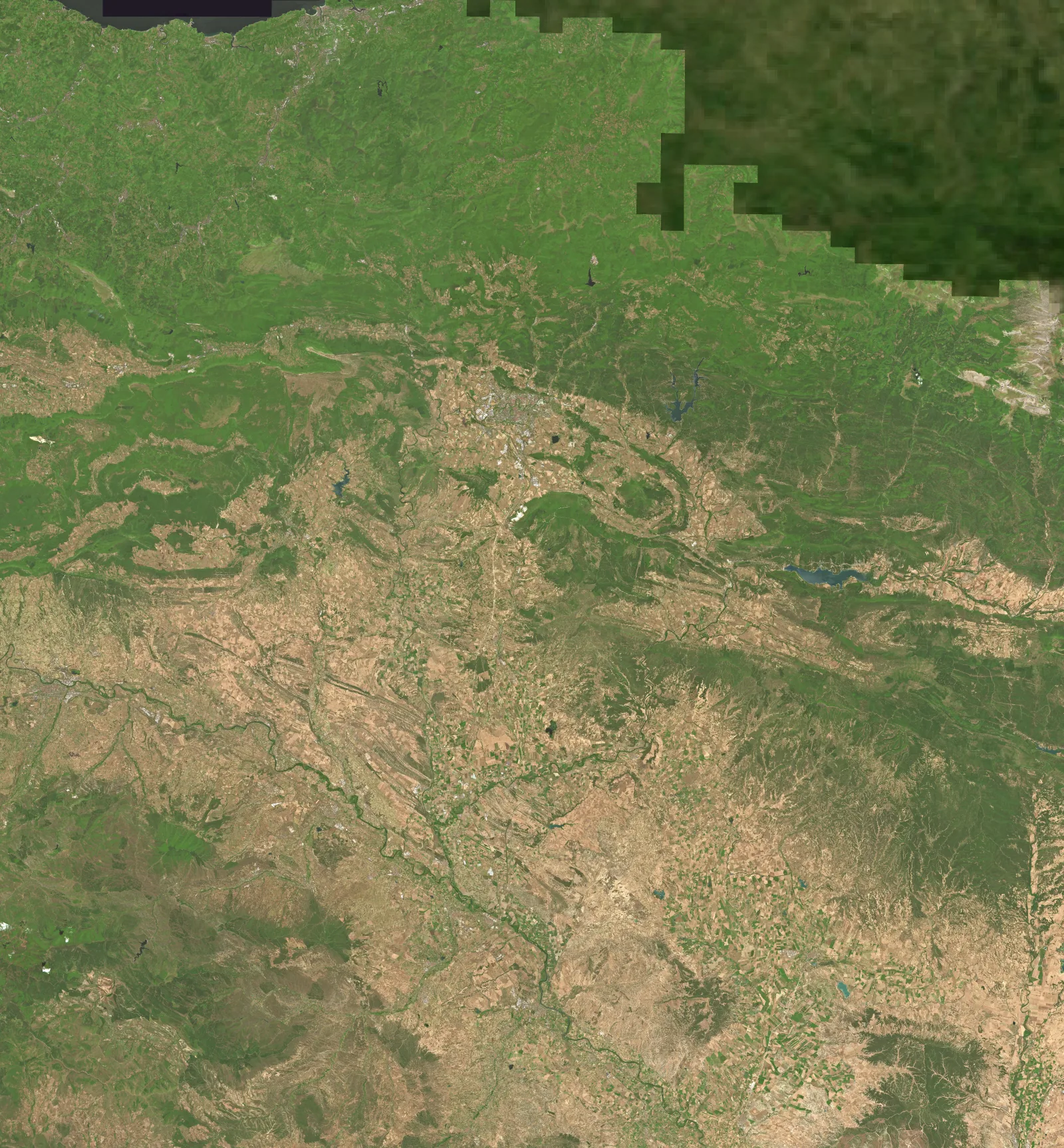
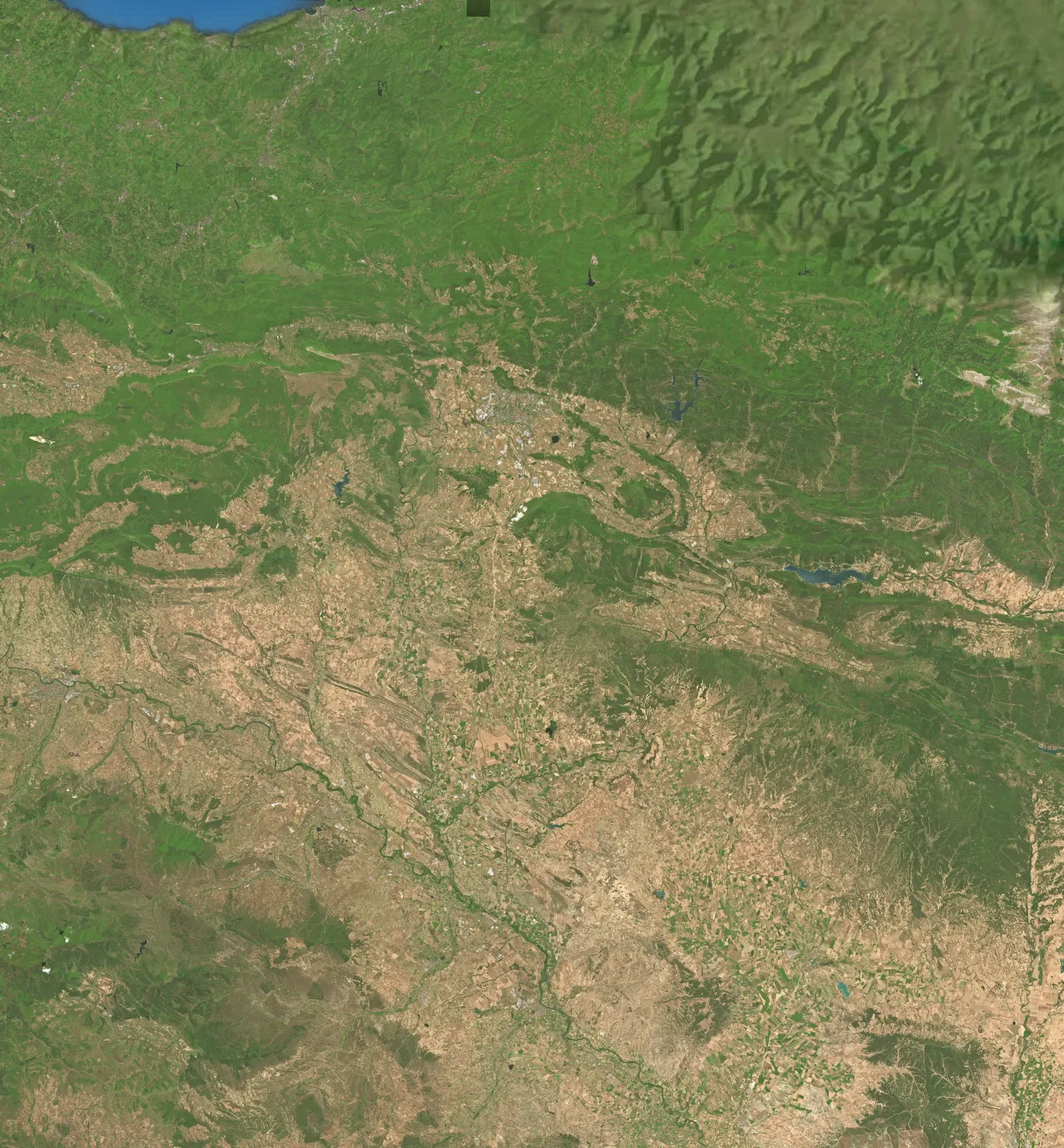
Mapa: la ortofoto sin la mancha de Francia y también fuera de su cuadro
En Francia la ortofoto era una capa oscura y a cuadros: ahí va la imagen de
alrededor del mapa, del mismo servicio y tono, con el borde fundido. Fuera del
cuadro de la ortofoto, el relieve y el canto de la isla toman esa misma imagen
en vez de estirar la foto desde su borde.

Claude-Session: https://claude.ai/code/session_01LP3syHb7415C8M5w3wgHaS

Changed region(s): [[0.4688, 0.0, 1.0, 0.2764], [0.0625, 0.0, 0.3125, 0.0307]]

diff --git a/src/hub/mapa3dIsla.js b/src/hub/mapa3dIsla.js
@@ -7,7 +7,7 @@
 // primera vez que se elige la comarca (mapa3d.js).
 import * as THREE from 'three';
 import { ruidoV, S, CX, CY } from './mapa3dFormas.js';
-import { TONO_ORTO, NUBES } from './mapa3dSombreadores.js';
+import { TONO_ORTO, NUBES, ORTO_FUERA } from './mapa3dSombreadores.js';
 // (la panza, desde el 15 de noviembre de 2026: tierra parda con piedras y terrones, raíces y algo de musgo, como la
 // segunda referencia del autor, una isla con cascada; generada con Higgsfield con la cuenta del autor, repetible y con sus
 // normales sacadas de su propia luz, tools/islas/tierra-roca.py. Antes, una caliza clara con surcos que bajaban, que de
@@ -354,14 +354,14 @@ void main() { vUv = uv; vZ = aZona; vL = aLuz; vA = aA; vRv = position.y; vS = a
     fragmentShader: `uniform sampler2D uRoca, uColg, uTierra, uHierba, uOrto, uOrtoD, uSombra; uniform vec4 uOrtoR, uDetRect, uRect; uniform float uOrtoK, uOrtoDK, uTintK, uGris, uListo, uCerca, uTex, uGrosor, uExa, uBrillo; uniform vec3 uTinte;
 varying vec2 vUv, vS; varying float vZ, vL, vA, vRv, vH;
 #include <fog_pars_fragment>
-${NUBES}${TONO_ORTO}float h2(vec2 p) { return fract(sin(dot(p, vec2(127.1, 311.7))) * 43758.5453); }
+${NUBES}${TONO_ORTO}${ORTO_FUERA}float h2(vec2 p) { return fract(sin(dot(p, vec2(127.1, 311.7))) * 43758.5453); }
 float n2(vec2 p) { vec2 i = floor(p), f = fract(p); f = f * f * (3.0 - 2.0 * f); return mix(mix(h2(i), h2(i + vec2(1, 0)), f.x), mix(h2(i + vec2(0, 1)), h2(i + vec2(1, 1)), f.x), f.y); }
 // (el color del suelo de la comarca en un punto, como lo pinta el terreno; b, cuánto se suaviza: el fleco lo toma algo
 // borroso, que no titile)
 vec3 suelo(vec2 p, float h, float b) {
   vec2 sv = p / ${S.toFixed(1)} + vec2(${CX.toFixed(1)}, ${CY.toFixed(1)});
-  vec3 o = texture2D(uOrto, (sv - uOrtoR.xy) / uOrtoR.zw, b).rgb;
-  if (uOrtoDK > 0.0) o = mix(o, texture2D(uOrtoD, (sv - uDetRect.xy) / uDetRect.zw, b).rgb, uOrtoDK);
+  vec2 ou = (sv - uOrtoR.xy) / uOrtoR.zw; vec3 o = ortoFuera(texture2D(uOrto, ou, b).rgb, sv, ou);
+  if (uOrtoDK > 0.0) { vec2 dq = (sv - uDetRect.xy) / uDetRect.zw; o = mix(o, texture2D(uOrtoD, dq, b).rgb, uOrtoDK * enCuadro(dq, 0.012)); }
   float s = mix(1.0, texture2D(uSombra, (sv - uRect.xy) / uRect.zw, b).r * 1.7, uListo);
   s = s < 1.0 ? 1.0 + (s - 1.0) * 1.25 : 1.0 + (s - 1.0) * 0.62; s += 0.22 * (1.0 - smoothstep(0.0, 0.7, s));
   vec3 c = mix(vec3(0.42, 0.55, 0.3) * s, tonoOrto(o) * (1.0 + (s - 1.0) * 0.7), uOrtoK);
@@ -406,7 +406,7 @@ void main() {
   // (los mismos uniformes que el terreno de su comarca, que cambian con él: la ortofoto, la luz del relieve, el tiempo de las
   // nubes, el velo)
   const DEF = { uTinte: () => new THREE.Color(), uOrtoR: () => new THREE.Vector4(0, 0, 1, 1), uDetRect: () => new THREE.Vector4(0, 0, 1, 1), uRect: () => new THREE.Vector4(0, 0, 1, 1), uBrillo: () => 1, uExa: () => 1, uOrto: () => null, uOrtoD: () => null, uSombra: () => null };
-  for (const k of ['uOrto', 'uOrtoD', 'uOrtoR', 'uDetRect', 'uOrtoK', 'uOrtoDK', 'uTinte', 'uTintK', 'uGris', 'uSombra', 'uRect', 'uListo', 'uT', 'uCerca', 'uTex', 'uGrosor', 'uExa', 'uBrillo']) cantoM.uniforms[k] = orto?.[k] || { value: DEF[k] ? DEF[k]() : 0 };
+  for (const k of ['uOrto', 'uOrtoD', 'uOrtoR', 'uEnt', 'uEntK', 'uDetRect', 'uOrtoK', 'uOrtoDK', 'uTinte', 'uTintK', 'uGris', 'uSombra', 'uRect', 'uListo', 'uT', 'uCerca', 'uTex', 'uGrosor', 'uExa', 'uBrillo']) cantoM.uniforms[k] = orto?.[k] || { value: DEF[k] ? DEF[k]() : 0 };
   const canto = new THREE.Mesh(cantoG, cantoM); canto.name = 'canto-' + id; canto.frustumCulled = false; canto.visible = false; canto.renderOrder = 1; scene.add(canto);
   let cantoSy = -1;
   // (el canto va a la altura del borde, la de la orilla ya bajada)

diff --git a/src/hub/mapa3d.js b/src/hub/mapa3d.js
@@ -168,18 +168,19 @@ if (uModo > 0.0) { vec2 a = vUs * uTam, b = (1.0 - vUs) * uTam;
     return m;
   };
   // (tambien: otros materiales que usan la misma imagen, la falda)
-  const suelo = (url, w, h, x, z, y, transp, funde = [0, 0, 0, 0], modo = 0, tambien = []) => {
+  const suelo = (url, w, h, x, z, y, transp, funde = [0, 0, 0, 0], modo = 0, tambien = [], alCargar = null) => {
     const g = new THREE.PlaneGeometry(w, h); geos.push(g);
     const m = sueloM(transp, funde, modo, w, h);
     new THREE.TextureLoader().load(url, (tx) => { if (!vivo) return tx.dispose(); cargas++; tx.colorSpace = THREE.SRGBColorSpace; tx.anisotropy = Math.min(8, r.capabilities.getMaxAnisotropy());
-      for (const o of [m, ...tambien]) { Object.assign(o, { map: tx, opacity: 1, needsUpdate: true, visible: true }); o.color.set(0xffffff); } });
+      for (const o of [m, ...tambien]) { Object.assign(o, { map: tx, opacity: 1, needsUpdate: true, visible: true }); o.color.set(0xffffff); } alCargar?.(tx); });
     const s = new THREE.Mesh(g, m); s.rotation.x = -Math.PI / 2; s.position.set(x, y, z); scene.add(s); return s;
   };
   // (la falda, con la imagen de alrededor de Navarra, la de 200 × 152 centrada en el mapa; sin ella aún, no se pinta)
   const faldaM = sueloM(false, [0, 0, 0, 0], 0, 200, 152, true); faldaM.visible = false;
   const [ex0, ey0, ex1, ey1] = [-3006, -451, 2824, 4150];   // (lo que cubre la imagen de la península, en unidades del mapa)
   suelo(ESPANA, (ex1 - ex0) * S, (ey1 - ey0) * S, ((ex0 + ex1) / 2 - CX) * S, ((ey0 + ey1) / 2 - CY) * S, -0.04, false, [130, 130, 150, 26], 1);
-  suelo(matchMedia?.('(pointer: coarse)').matches || o.ligero ? ENTORNO_M : ENTORNO, 200, 152, 0, 0, -0.02, true, [14, 14, 14, 14], 2, [faldaM]).renderOrder = -2;
+  // (y la misma imagen, para el relieve y el canto de la isla donde caen fuera del cuadro de la ortofoto: RELIEVE_FS ortoFuera)
+  suelo(matchMedia?.('(pointer: coarse)').matches || o.ligero ? ENTORNO_M : ENTORNO, 200, 152, 0, 0, -0.02, true, [14, 14, 14, 14], 2, [faldaM], (tx) => { UNI.uEnt.value = tx; UNI.uEntK.value = 1; }).renderOrder = -2;
 
   // el sombreado fino, compartido por todas las comarcas (mientras llega, el de cada vértice)
   const R = MAPA_RELIEVE.sombra, LISTO = { value: 0 };
@@ -193,7 +194,7 @@ if (uModo > 0.0) { vec2 a = vUs * uTam, b = (1.0 - vUs) * uTam;
   const ORTO_K = { value: 0 }; let ortoListo = 0;
   const orto = new THREE.TextureLoader().load(ORTO, () => { ortoListo = 1; });
   orto.flipY = false; orto.colorSpace = THREE.NoColorSpace; orto.anisotropy = Math.min(8, r.capabilities.getMaxAnisotropy());
-  Object.assign(UNI, { uOrto: { value: orto }, uOrtoK: ORTO_K, uOrtoR: { value: new THREE.Vector4(MAPA_ORTO.x0, MAPA_ORTO.y0, MAPA_ORTO.w * MAPA_ORTO.paso, MAPA_ORTO.h * MAPA_ORTO.paso) } });
+  Object.assign(UNI, { uEnt: { value: nada }, uEntK: { value: 0 }, uOrto: { value: orto }, uOrtoK: ORTO_K, uOrtoR: { value: new THREE.Vector4(MAPA_ORTO.x0, MAPA_ORTO.y0, MAPA_ORTO.w * MAPA_ORTO.paso, MAPA_ORTO.h * MAPA_ORTO.paso) } });
   const CERCA = { value: 0 }, TEXK = { value: 0 };   // (lo cerca que está la cámara, de 0 a 1: el grano fino del terreno; y las texturas, desde la vista de una comarca)
   const relieveM = (c, vivo) => { const d = MAPA_RELIEVE.detalle[c.id], m = new THREE.ShaderMaterial({ vertexShader: RELIEVE_VS, fragmentShader: RELIEVE_FS, defines: { ...LIGERO }, vertexColors: true, fog: true,
     uniforms: { ...THREE.UniformsUtils.clone(THREE.UniformsLib.fog), ...UNI, uDet: { value: nada }, uDetK: { value: 0 }, uOrtoD: { value: nada }, uOrtoDK: { value: 0 }, uCerca: CERCA, uTex: TEXK, uT: TIEMPO, ...orU(c), ...ORS,

diff --git a/src/hub/mapa3dSombreadores.js b/src/hub/mapa3dSombreadores.js
@@ -135,9 +135,18 @@ vec3 acabado(vec3 c) { float l = dot(c, vec3(0.299, 0.587, 0.114)), sat = max(c.
   c = mix(c, vec3(0.3, 0.31, 0.47) * (0.45 + l * 1.45), (1.0 - smoothstep(0.05, 0.42, l)) * 0.6);
   return c * mix(vec3(1.0), vec3(1.03, 1.015, 0.97), smoothstep(0.42, 0.85, l)); }
 `;
+// (la ortofoto fuera de su cuadro: lo que crece una isla para que sus montes salgan enteros, mapa3dAmplia.js, cae a veces
+// más allá, y allí la foto se estiraba desde su borde. Se toma la imagen de alrededor del mapa, entorno-sat.webp, la del
+// suelo de fuera, que es del mismo servicio y con el mismo tono; uEnt llega cargada como color, de ahí la vuelta al tono
+// de la foto. Y la fina de la comarca, solo dentro de su cuadro)
+export const ORTO_FUERA = `uniform sampler2D uEnt; uniform float uEntK;
+float enCuadro(vec2 q, float w) { vec2 e = min(q, 1.0 - q); return smoothstep(0.0, w, min(e.x, e.y)); }
+vec3 ortoFuera(vec3 o, vec2 sv, vec2 ou) { if (uEntK <= 0.0) return o; float d = enCuadro(ou, 0.004); if (d > 0.999) return o;
+  vec2 eu = vec2((sv.x + 628.0) / 2000.0, 1.0 - (sv.y + 360.0) / 1520.0); return mix(pow(max(texture2D(uEnt, eu).rgb, 0.0), vec3(0.4545)), o, d); }
+`;
 export const RELIEVE_FS = `uniform sampler2D uSombra, uDet, uP0, uP1, uP2, uP3, uBosque, uOrto, uOrtoD; uniform vec4 uRect, uDetRect, uPR[4], uHueco, uBosqueR, uOrtoR; uniform float uPK[4], uCerca, uTex, uDetK, uListo, uGrosor, uExa, uGris, uTintK, uBrillo, uOrtoK, uOrtoDK; uniform vec3 uTinte, uPal[${PALETA.length}]; uniform float uCota[${PALETA.length}];
 varying vec2 vXZ; varying float vH, vSom, vOr;
-${NUBES}
+${ORTO_FUERA}${NUBES}
 #include <fog_pars_fragment>
 ${TONO_ORTO}// (un pueblo pintado encima, si el punto cae en su recuadro)
 // (el grano fino de cerca: ruido de valores en dos octavas, en unidades del mapa)
@@ -212,7 +221,7 @@ void main() {
   // (en la orilla bajada de una isla, en lo muy pendiente, la foto se estiraba en vetas: allí, algo difuminada, y la fina,
   // a medias. Más difuminada, la orilla quedaba como una rampa verde lisa, que el autor ya no quiso el 14 de noviembre de
   // 2026; los montes fantasma bajo un velo que se veían en lo que crece una isla venían del relieve fino, no de la foto)
-  if (uOrtoK > 0.0) { vec2 ou = (sv - uOrtoR.xy) / uOrtoR.zw; vec3 o = texture2D(uOrto, ou).rgb; if (vOr > 0.05) o = mix(o, texture2D(uOrto, ou, 1.2).rgb, 0.6 * smoothstep(0.15, 0.8, vOr)); if (vOr > 0.05) o *= 1.0 + (ruido(sv * 7.0) * 0.6 + ruido(sv * 19.0) * 0.4 - 0.5) * 0.22 * smoothstep(0.05, 0.6, vOr);   // (y su grano de hierba, a matas)   // (desde el 15 de noviembre de 2026, apenas suavizada: muy borrosa, la rampa de la orilla salía como una banda verde lisa)
+  if (uOrtoK > 0.0) { vec2 ou = (sv - uOrtoR.xy) / uOrtoR.zw; vec3 o = texture2D(uOrto, ou).rgb; if (vOr > 0.05) o = mix(o, texture2D(uOrto, ou, 1.2).rgb, 0.6 * smoothstep(0.15, 0.8, vOr)); o = ortoFuera(o, sv, ou); if (vOr > 0.05) o *= 1.0 + (ruido(sv * 7.0) * 0.6 + ruido(sv * 19.0) * 0.4 - 0.5) * 0.22 * smoothstep(0.05, 0.6, vOr);   // (y su grano de hierba, a matas)   // (desde el 15 de noviembre de 2026, apenas suavizada: muy borrosa, la rampa de la orilla salía como una banda verde lisa)
     if (uOrtoDK > 0.0) { vec2 dq = (sv - uDetRect.xy) / uDetRect.zw; o = mix(o, texture2D(uOrtoD, dq).rgb, uOrtoDK * enRect(dq) * (1.0 - 0.5 * smoothstep(0.15, 0.8, vOr))); }
     c = mix(c, tonoOrto(o) * (1.0 + (s - 1.0) * 0.7), uOrtoK); }
   float pin = 1.0 - uOrtoK;   // (lo pintado a mano, que la ortofoto ya trae de verdad: parcelas, bosque, roca, el clima)

diff --git a/tools/relieve/orto-fuera.py b/tools/relieve/orto-fuera.py
@@ -1,0 +1,35 @@
+# La ortofoto del mapa (src/assets/relieve/orto.webp, de tools/relieve/ortofoto.py) sin la mancha de Francia: el servicio
+# del PNOA solo cubre España y, al otro lado de la frontera, su capa de fondo es un satélite de baja resolución, oscuro y a
+# cuadros. Mientras el mapa solo pintaba Navarra no se veía; desde que la isla de una comarca crece y coge montes de
+# Francia (15 de noviembre de 2026, src/hub/mapa3dAmplia.js), sí: «que no parezcan piezas de puzzle». Donde la foto es de
+# esa capa (casi sin detalle y mucho más oscura que la imagen de alrededor), se pone la imagen de alrededor del mapa
+# (src/assets/relieve/entorno-sat.webp, de tools/relieve/fuera.py: el mismo servicio, con el fondo ya llevado al tono del
+# PNOA), con el borde fundido. Lo demás no se toca. Necesita PIL y numpy.
+#
+#   python3 tools/relieve/orto-fuera.py src/assets/relieve/orto.webp src/assets/relieve/entorno-sat.webp <salida .webp>
+import sys, numpy as np
+from PIL import Image, ImageFilter
+ORTO, ENT, OUT = sys.argv[1:4]
+X0, Y0, PASO = 15.0, 12.0, 0.45            # (src/data/mapa-orto.js)
+EX0, EY0, EW = 372 - 1000, 400 - 760, 2000  # (lo que cubre entorno-sat.webp, en unidades del mapa)
+o = Image.open(ORTO).convert('RGB'); W, H = o.size
+e = Image.open(ENT).convert('RGBA'); k = e.size[0] / EW
+a = PASO * k; er = e.transform((W, H), Image.AFFINE, (a, 0, (X0 - EX0) * k + 0.5 * a - 0.5, 0, a, (Y0 - EY0) * k + 0.5 * a - 0.5), resample=Image.BICUBIC)
+O = np.asarray(o).astype(np.float32) / 255; E = np.asarray(er).astype(np.float32)[..., :3] / 255
+g = lambda x, r: np.asarray(Image.fromarray(np.clip(x * 255, 0, 255).astype(np.uint8)).filter(ImageFilter.GaussianBlur(r))).astype(np.float32) / 255
+L, LE = O.mean(2), E.mean(2)
+det = g(np.clip(np.abs(L - g(L, 3)) * 8, 0, 1), 10)       # (el detalle de cerca: el PNOA tiene mucho, el fondo casi nada)
+ratio = g(LE, 10) / np.maximum(g(L, 10), 0.02)             # (cuánto más clara es la imagen de alrededor)
+m = ((det < 0.1) & (ratio > 1.25)).astype(np.float32)
+m = (g(m, 6) > 0.5).astype(np.float32)                     # (sin motas sueltas)
+# (los cuadros sueltos de esa capa junto a la frontera, que por tocar el PNOA claro parecían tener detalle: cerca de lo
+# ya encontrado, lo mucho más oscuro que la imagen de alrededor, mirado de cerca)
+cerca = g(m, 30) > 0.03
+m = np.maximum(m, (cerca & (g(LE, 2) / np.maximum(g(L, 2), 0.02) > 1.3)).astype(np.float32))
+m = (g(m, 3) > 0.5).astype(np.float32)
+m = np.maximum(m, (g(m, 14) > 0.3).astype(np.float32))     # (algo crecida, para que entren los escalones de los cuadros)
+m = g(np.maximum(m, (g(m, 22) > 0.2).astype(np.float32)), 26)[..., None]   # (y el borde, fundido en ancho: los escalones de los cuadros del
+# servicio no se notan)
+out = O * (1 - m) + E * m
+Image.fromarray(np.clip(out * 255, 0, 255).astype(np.uint8)).save(OUT, quality=88, method=6)
+print('cambiado', round(float((m > 0.5).mean()) * 100, 1), '% de la imagen')

diff --git a/ARQUITECTURA.md b/ARQUITECTURA.md
@@ -2251,6 +2251,14 @@ cuando cambie la estructura. Las copias de seguridad son ramas de git `copia-AAA
     que ya había no se toca; al sacarlo de nuevo salen iguales los 30.790 puntos de antes. Lo nuevo, 52.930 puntos, hasta
     2.400 m.
   - El relieve fino, `fino.webp`, igual, de las teselas de nivel 11 de EU-DEM: de 1.025 × 1.106 a 1.196 × 1.278 puntos.
+- **La ortofoto, sin la mancha de Francia y también fuera de su cuadro** (`tools/relieve/orto-fuera.py`; `ORTO_FUERA` en
+  `mapa3dSombreadores.js`; el canto en `mapa3dIsla.js`; `uEnt` en `mapa3d.js`; 15 de noviembre de 2026). Para que lo que
+  coge la isla de fuera de Navarra no parezca una pieza de puzle:
+  - En Francia, la ortofoto era la capa de fondo del servicio, oscura y a cuadros. Donde la foto es de esa capa, casi sin
+    detalle y mucho más oscura, va la imagen de alrededor del mapa, `entorno-sat.webp`, del mismo servicio y con el mismo
+    tono, con el borde fundido en ancho. Un 10 % de la imagen; lo demás no se toca.
+  - Fuera del cuadro de la ortofoto, el relieve y el canto de la isla toman esa misma imagen de alrededor, la del suelo de
+    fuera; antes la foto se estiraba desde su borde. La foto fina de cada comarca, solo dentro de su cuadro.
 - **Musgo en la panza, como la isla de la tercera referencia** (`uMusgoT`, `conMusgo` y el musgo de `ROCA_FS` en
   `mapa3dIsla.js`; `tools/islas/musgo.py`; 15 de noviembre de 2026). El autor pasó otra referencia, una isla cuya roca
   está cubierta de musgo y hierba que baja desde el borde: «más referencias que te ayuden». Lo que más se apartaba de la
